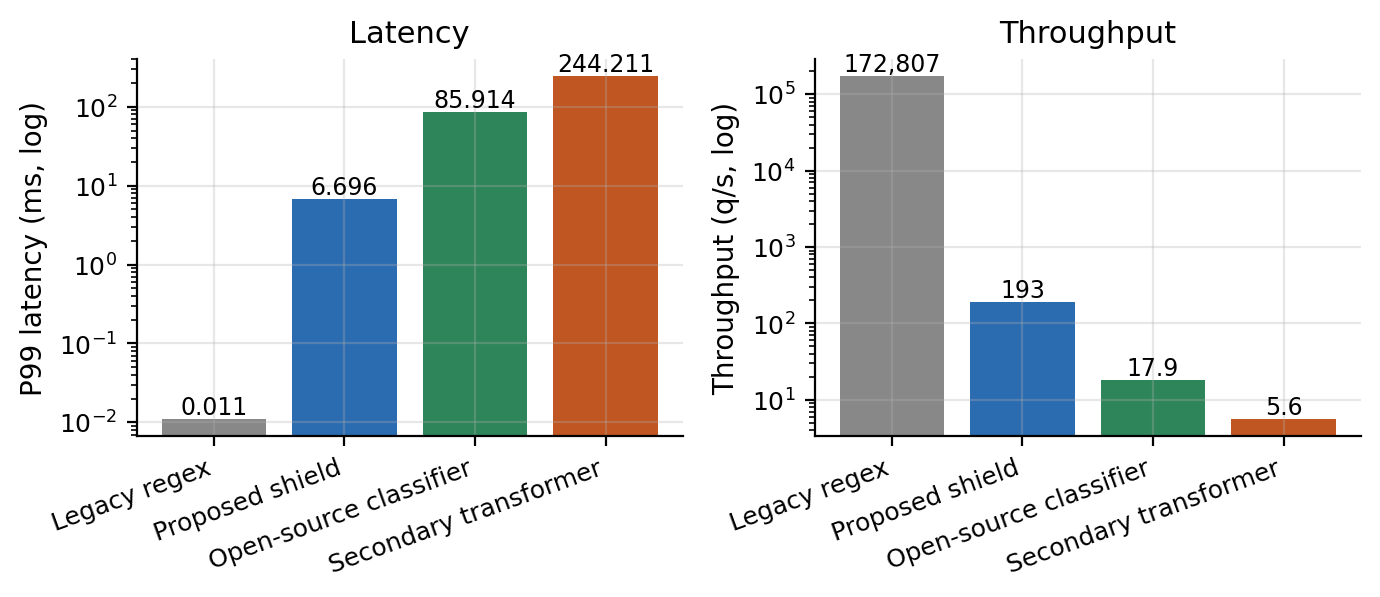
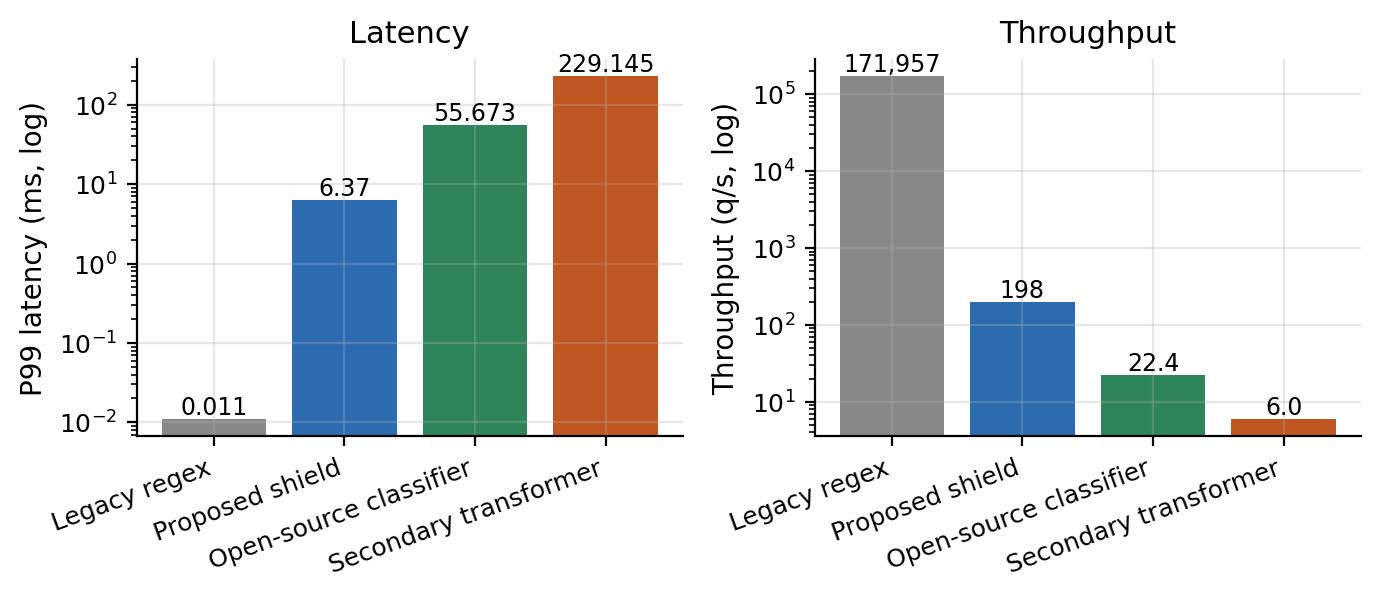
Add missing McNemar test for public-benchmark shield-vs-secondary comparison
The paper cites a McNemar's p-value for this comparison, but it was never
wired into run_benchmark.py's public-benchmark-transfer block or exported
to results.json, so the number wasn't reproducible from the released
artifacts. Adds the test and re-runs the full benchmark to regenerate
results.json, raw_scores.npz, and all figures. Detection metrics are
unchanged (deterministic under the fixed seed); latency figures shifted by
normal run-to-run variance, as already documented elsewhere in the paper.

diff --git a/experiments/run_benchmark.py b/experiments/run_benchmark.py
@@ -319,6 +319,9 @@ def main():
         pub_secondary_scores, _ = run_stage1_system(secondary.score, pub)
         pub_labels = [1 if e["label"] == "adversarial" else 0 for e in pub]
 
+        mcnemar_shield_vs_secondary_public = mcnemar_test(pub_labels, pub_scores, tau_injection,
+                                                            pub_secondary_scores, tau_secondary)
+
         results["stage1_public_benchmark_transfer"] = {
             "source": "deepset/prompt-injections (Hugging Face, train+test splits combined)",
             "caveat": "this dataset's positive label was built around a task-oriented chatbot "
@@ -332,6 +335,13 @@ def main():
             "proposed_semantic_shield": eval_binary(pub_scores, pub_labels, tau_injection, with_ci=True),
             "legacy_regex": eval_binary(pub_legacy_scores, pub_labels, tau_legacy, with_ci=True),
             "secondary_transformer_verifier": eval_binary(pub_secondary_scores, pub_labels, tau_secondary, with_ci=True),
+            "significance": {
+                "shield_vs_secondary_mcnemar": mcnemar_shield_vs_secondary_public,
+                "note": "exact (binomial) McNemar's test on paired public-benchmark predictions, at the "
+                        "SAME already-tuned thresholds used throughout this transfer test (no retuning); "
+                        "small p-value means the two systems' error patterns are unlikely to be symmetric "
+                        "by chance.",
+            },
         }
         raw["public_labels"] = np.array(pub_labels)
         raw["public_shield_scores"] = np.array(pub_scores)
